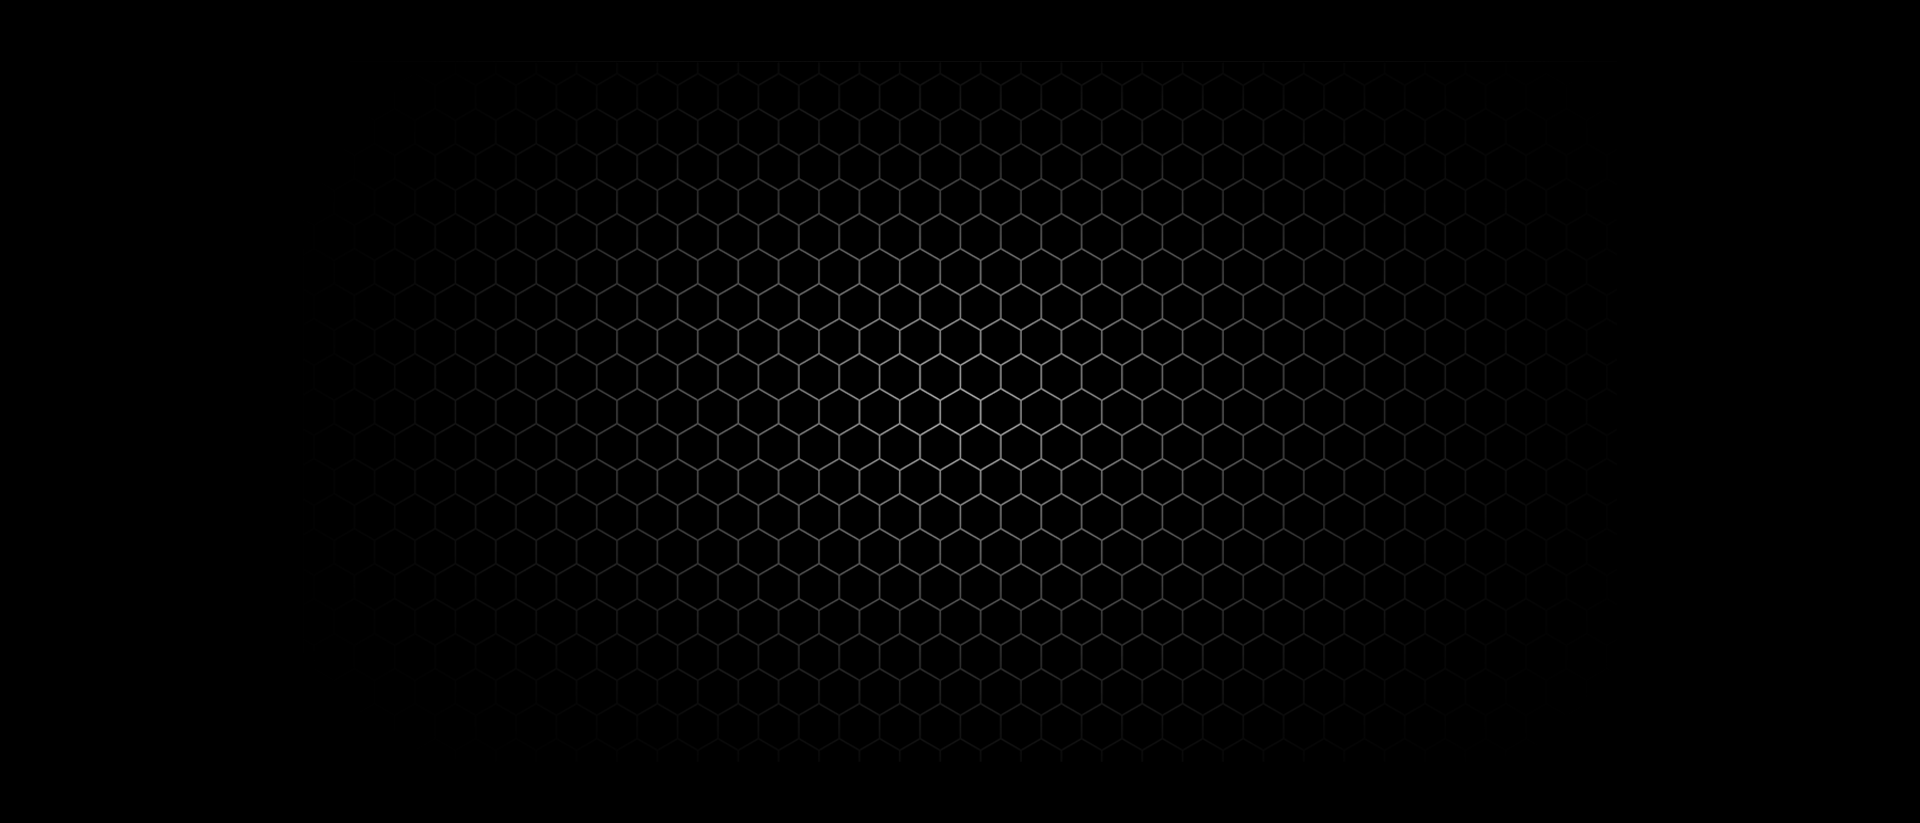
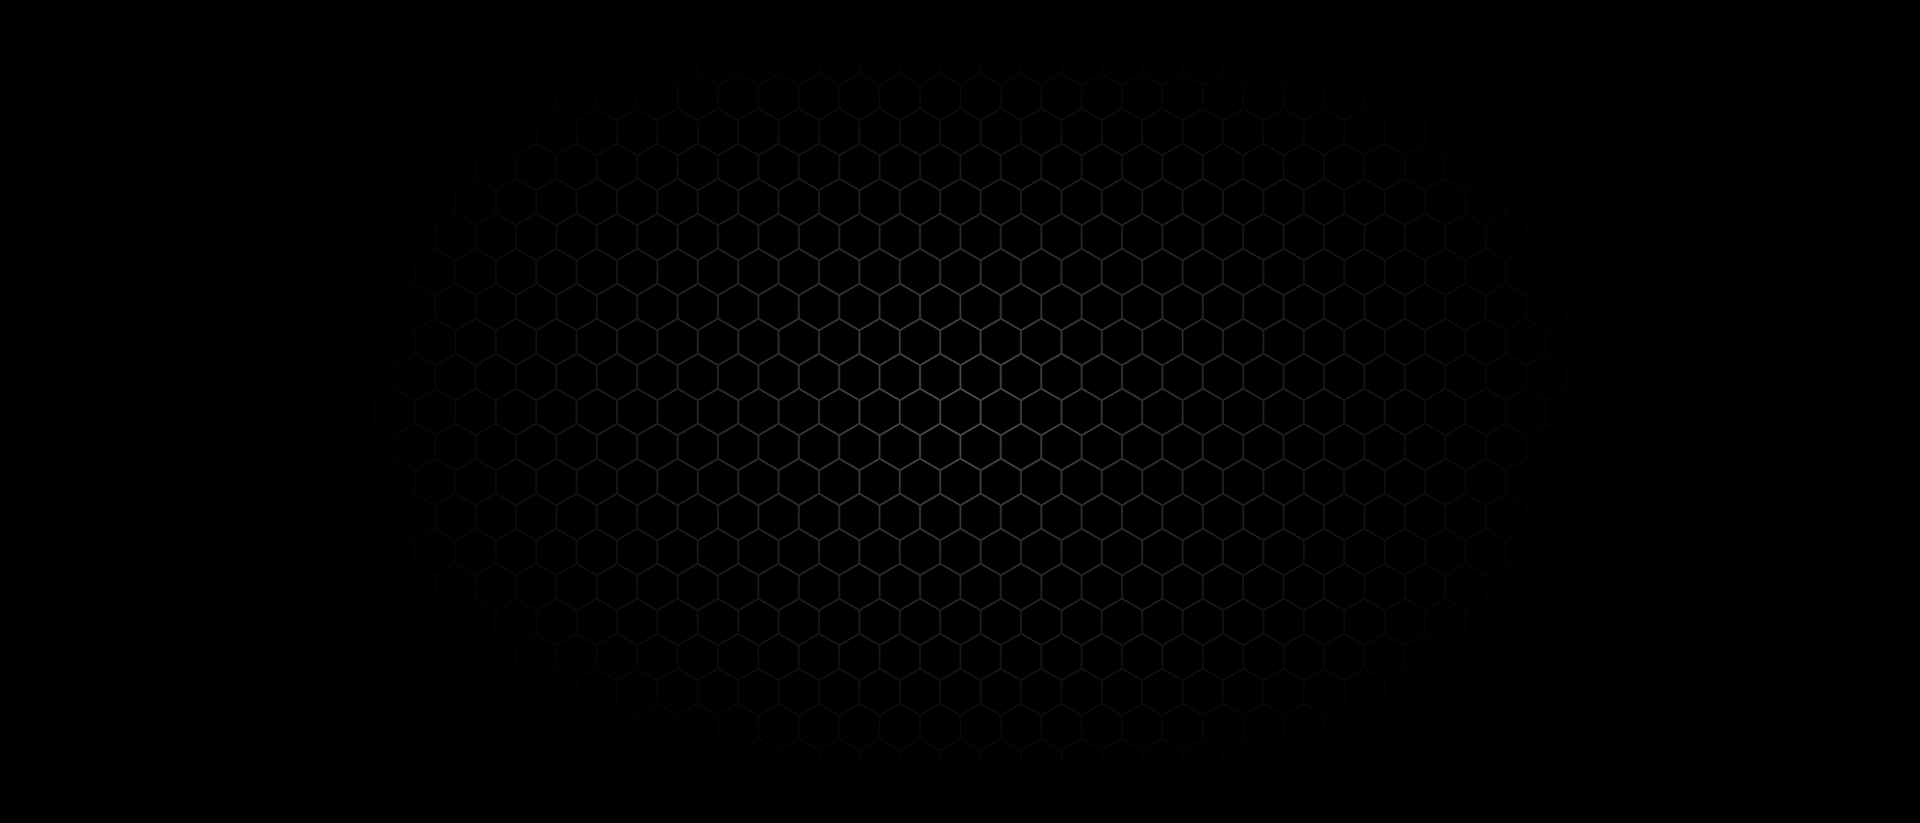
header

diff --git a/app/components/Thestandout.tsx b/app/components/Thestandout.tsx
@@ -1,26 +1,39 @@
 import React from 'react'
+import Image from "next/image";
 
 const Thestandout = () => {
   return (
     <section className='standout'>
+      <section className='middlesection'>
+        <div className='dogpicture' >
+          <Image
+            src="/images/circles.png" // Public folder path
+            alt="Example Image"
+            width={150} // Set width
+            height={163} // Set height
+            priority // Ensures it loads faster
+            layout="intrinsic" // Keeps aspect ratio based on width and height
+          />
+        </div>
+      </section>
       <div className='standoutpage'>
         <div className='standoutheader'>
-        <h1>Why CypherPup Stands Out</h1>
-        <p>CypherPup seamlessly blends personality, innovation, and utility, making it a standout in the crowded world of meme coins. Here’s why it’s the next big thing:</p>
+          <h1>Why CypherPup Stands Out</h1>
+          <p>CypherPup seamlessly blends personality, innovation, and utility, making it a standout in the crowded world of meme coins. Here’s why it’s the next big thing:</p>
         </div>
         <div className='standoutbox'>
-            <div className='standoutcard'>
-                <h3>For the Meme Enthusiasts</h3>
-                <p>Eye-catching, viral-ready mascots and memes designed to entertain while creating value.</p>
-            </div>
-            <div className='standoutcard'>
-                <h3>For the Tech Innovators</h3>
-                <p>Built on Cypherium&apos;s blockchain, CypherPup offers lightning-fast transactions, cross-chain compatibility, and the scalability needed for a future-proof ecosystem.s</p>
-            </div>
-            <div className='standoutcard'>
-                <h3>For the Visionaries</h3>
-                <p>CypherPup is more than a meme—it&apos;s a token with real-world utility, integrating NFTs, DeFi, and decentralized exchange (DEX) functionality to unlock new possibilities</p>
-            </div>
+          <div className='standoutcard'>
+            <h3>For the Meme Enthusiasts</h3>
+            <p>Eye-catching, viral-ready mascots and memes designed to entertain while creating value.</p>
+          </div>
+          <div className='standoutcard'>
+            <h3>For the Tech Innovators</h3>
+            <p>Built on Cypherium&apos;s blockchain, CypherPup offers lightning-fast transactions, cross-chain compatibility, and the scalability needed for a future-proof ecosystem.s</p>
+          </div>
+          <div className='standoutcard'>
+            <h3>For the Visionaries</h3>
+            <p>CypherPup is more than a meme—it&apos;s a token with real-world utility, integrating NFTs, DeFi, and decentralized exchange (DEX) functionality to unlock new possibilities</p>
+          </div>
         </div>
       </div>
     </section>

diff --git a/app/components/HeaderComponent.tsx b/app/components/HeaderComponent.tsx
@@ -8,7 +8,7 @@ const HeaderComponent = () => {
         <section className='mainheader'>
             <div className='maheader'>
                 <div className='namesection'>
-                    <h1 className='bouncer animate__animated animate__slideInDown animate__fast'>Meet CypherPup:</h1>
+                    <h1 className='bouncer animate__animated animate__slideInDown animate__fast'>CypherPup:</h1>
                     <h2 className='bouncer animate__animated animate__slideInDown animate__fast'>The Blockchain&rsquo;s &apos;Goodest Boy&apos;</h2>
                     <p><span>CypherPup isn’t just a meme—</span>it’s a movement. Built on Cypherium, powered by innovation,
                         and driven by YOU.
@@ -49,12 +49,12 @@ const HeaderComponent = () => {
                         </div>
                     </div>
                 </div>
-                <div className='imagesection bounce'>
+                <div className='imagesection'>
                     <Image
-                        src="/images/1000090655.png" // Public folder path
+                        src="/images/madogi.png" // Public folder path
                         alt="CypherPup"
-                        width={300} // Set width
-                        height={522} // Set height
+                        width={700} // Set width
+                        height={657} // Set height
                         priority // Ensures it loads faster
                         layout="intrinsic" // Keeps aspect ratio based on width and height
                         className='responsive-image'

diff --git a/app/globals.css b/app/globals.css
@@ -44,7 +44,7 @@ a {
 
 p {
   font-family: "Poppins", serif;
-  font-weight: 400;
+  font-weight: bold;
   line-height: 1.5rem;
 }
 
@@ -90,7 +90,7 @@ h3 {
   background-color: black;
   height: 100vh;
   width: 100%;
-  background-image: url("/images/cypherPupbgthree.jpg");
+  background-image: url("/images/cypherPupbgtwothree.png");
   background-size: cover;
   background-position: center;
   display: flex;
@@ -464,11 +464,11 @@ h3 {
 
 .standout {
   background-color: #000000;
-  background-image: url("/images/abtng.png");
+  background-image: url("/images/abt.png");
   background-size: cover;
   background-position: center;
   background-attachment: fixed;
-  height: 60vh;
+  /* height: 60vh; */
 }
 
 .standoutpage {
@@ -729,10 +729,14 @@ h3 {
   width: 100%;
 }
 
-.technomicsheader {
+.technomics{
   max-width: 1200px;
   margin: 0 auto;
   padding: 3rem 0rem;
+}
+
+.technomicsheader {
+  
   display: grid;
   grid-template-columns: 1fr 1fr;
   gap: 2rem;

diff --git a/app/page.tsx b/app/page.tsx
@@ -2,8 +2,6 @@ import AboutComponent from "./components/AboutComponent";
 import ContactsComponent from "./components/ContactsComponent";
 import FooterComponent from "./components/FooterComponent";
 import HeaderComponent from "./components/HeaderComponent";
-import MeettheTeamComponent from "./components/MeettheTeamComponent";
-import MiddleComponent from "./components/MiddleComponent";
 import NavigationComponent from "./components/NavigationComponent";
 import TeknomicsComponent from "./components/TeknomicsComponent";
 import TheparkComponent from "./components/TheparkComponent";
@@ -18,10 +16,8 @@ export default function Home() {
       <HeaderComponent/>
       <TheparkComponent/>
       <AboutComponent/>
-      <MiddleComponent/>
       <Thestandout/>
       <TeknomicsComponent/>
-      <MeettheTeamComponent/>
       <ContactsComponent/>
       <FooterComponent/>
     </div>
